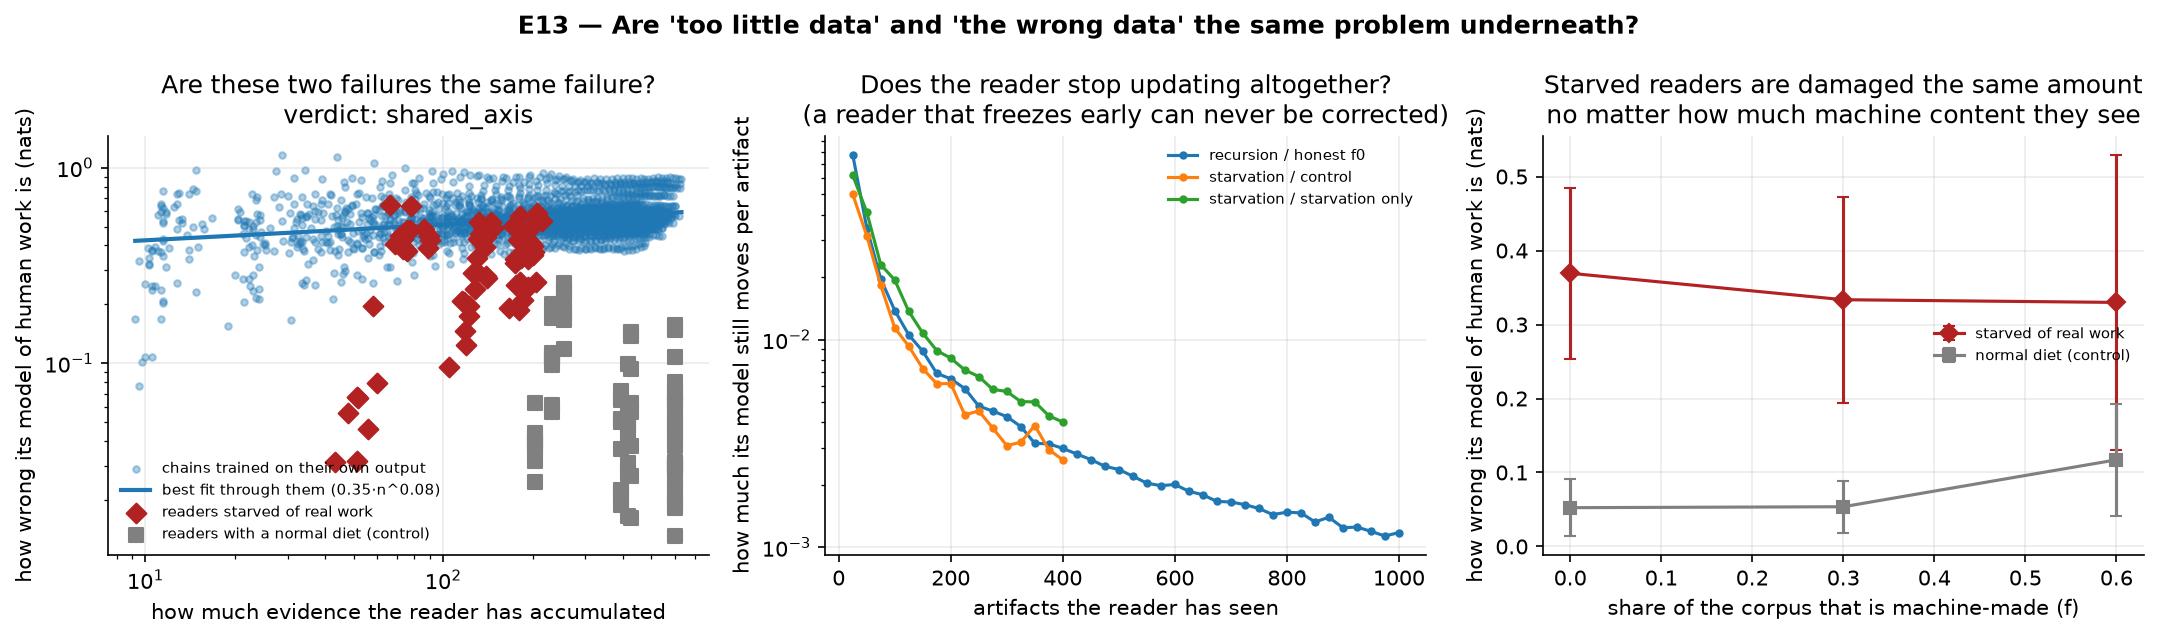
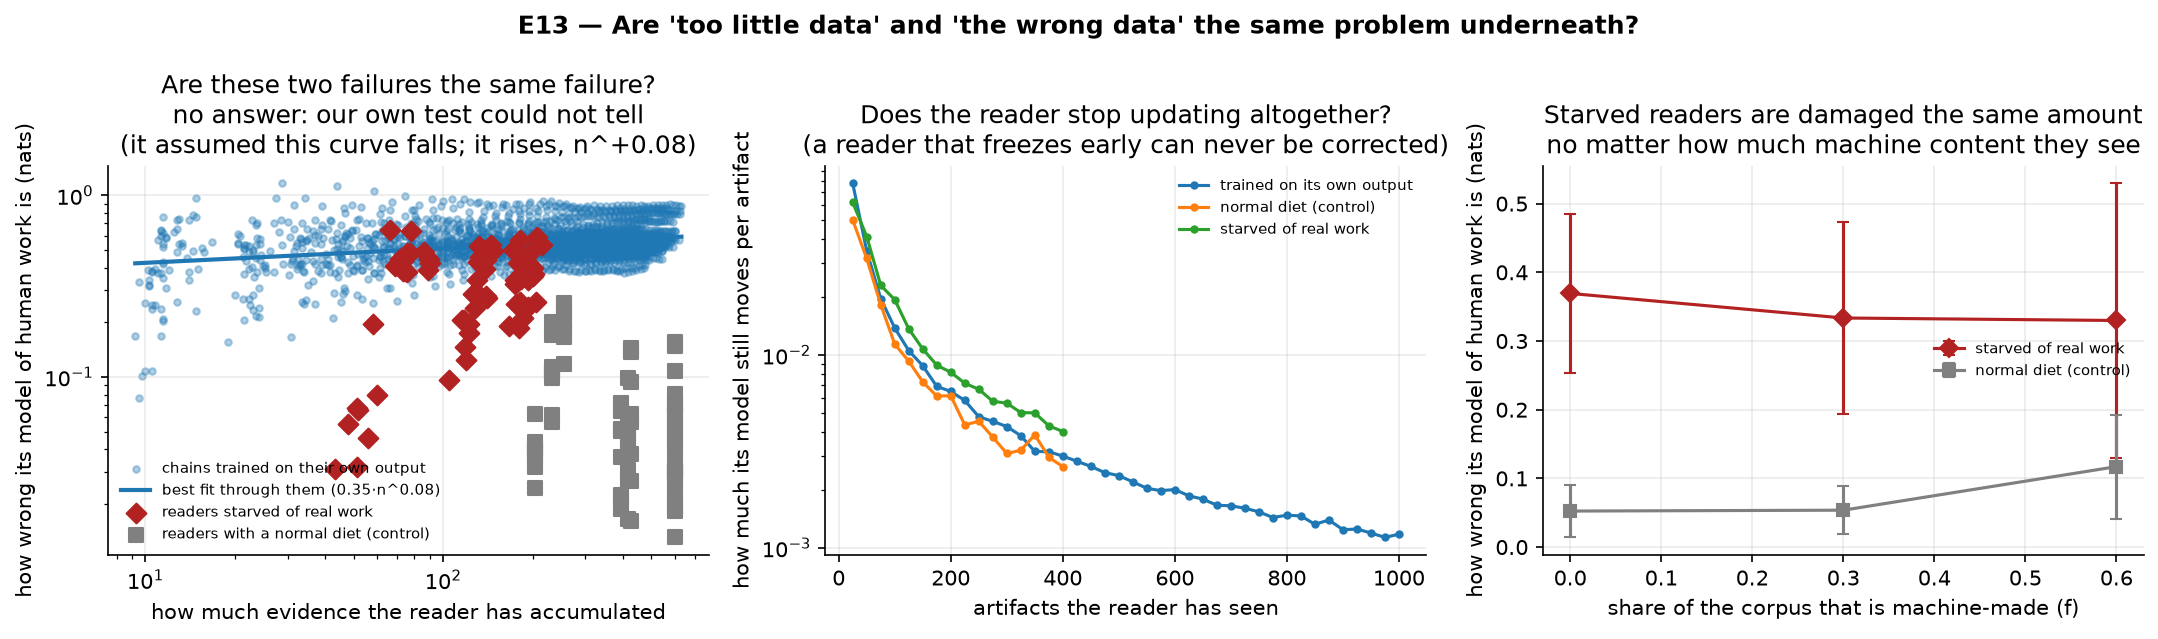
Fix four charts that argued against their own data
Reading the regenerated figures one by one turned up four titles asserting a
claim the panel underneath refutes. On a private repo that is a nuisance. On a
public one it is the reader's first impression of whether the numbers were looked
at.

E13 panel 1 printed the pre-registered classifier's verdict, "shared_axis",
directly onto the chart. RESULTS_V3.md deviation 2 says in as many words that this
answer may not be reported: the rule is a factor-of-2 tolerance test around a
power-law fit, written without requiring the fitted exponent to be negative, and
it came out positive (+0.080). Around a flat curve that tolerance accepts almost
anything. The chart now says the test could not tell, and why. The verdict JSON is
left alone, because it is the record of what the rule actually returned and
therefore the evidence for the deviation.

E10 panel 3 was captioned "train on what unskilled readers report, and you get a
more flattering agent". That is the E10 prediction that did NOT replicate. The
line is flat (slope -0.0065, t = -0.37) and the caption claimed the opposite of
what it plotted.

E9 panel 2 was captioned "the reader stops telling anything apart". Starvation
does not flatten in this model, which is V2's actual finding: it freezes the
reader at its prior instead. The panel showed the absence and the title asserted
the presence.

E6b panel 1 said content with no lean "cancels out". It does not; the control also
[…]

diff --git a/ghostscale/experiments/e13_freeze_leak_signature.py b/ghostscale/experiments/e13_freeze_leak_signature.py
@@ -278,17 +278,31 @@ def make_e13_figure(df, verdict, path):
     if len(control):
         ax.scatter(control.eff_sample_count, control.creator_col_kl, s=45, marker="s",
                    color="grey", label="readers with a normal diet (control)", zorder=5)
+    # DO NOT print classification.label straight onto the chart. The pre-registered rule returns
+    # "shared_axis" here, and RESULTS_V3.md deviation 2 says that answer may not be reported: the
+    # rule is a tolerance test against a power-law fit, and it was written without requiring the
+    # fitted exponent to be negative. It came out POSITIVE (+0.080), so the curve is flat, and a
+    # factor-of-2 tolerance around a flat curve accepts almost any value. The test cannot tell
+    # the two outcomes apart. The figure has to say that, or it contradicts the write-up.
+    if float(fit.get("b", 0.0)) >= 0.0:
+        verdict_line = ("no answer: our own test could not tell\n"
+                        f"(it assumed this curve falls; it rises, n^{fit['b']:+.2f})")
+    else:
+        verdict_line = f"verdict: {verdict['classification']['label'].replace('_', ' ')}"
     ax.set(xscale="log", yscale="log",
            xlabel="how much evidence the reader has accumulated",
            ylabel="how wrong its model of human work is (nats)",
-           title="Are these two failures the same failure?\n"
-                 f"verdict: {verdict['classification']['label']}")
+           title=f"Are these two failures the same failure?\n{verdict_line}")
     ax.legend(fontsize=7)
 
     ax = axes[1]
     for (half, arm), sub in df.groupby(["half", "arm"]):
         m = sub.groupby("artifact_index").col_change_rate.mean().sort_index()
-        ax.plot(m.index, m.values, marker="o", ms=3, label=f"{half} / {arm}".replace("_", " "))
+        arm_name = {("recursion", "honest_f0"): "trained on its own output",
+                    ("starvation", "control"): "normal diet (control)",
+                    ("starvation", "starvation_only"): "starved of real work"}
+        ax.plot(m.index, m.values, marker="o", ms=3,
+                label=arm_name.get((half, arm), f"{half} / {arm}".replace("_", " ")))
     ax.set(yscale="log", xlabel="artifacts the reader has seen",
            ylabel="how much its model still moves per artifact",
            title="Does the reader stop updating altogether?\n"

diff --git a/ghostscale/experiments/e10_expertise.py b/ghostscale/experiments/e10_expertise.py
@@ -197,14 +197,18 @@ def make_e10_figure(df, agg, path):
     ax.set(xlabel="how far the reader is from expert (0 = expert)",
            ylabel="how often it names the right purpose",
            title="The reader is the ceiling, not the material")
-    ax.legend(loc="lower left", fontsize=8)
+    ax.legend(loc="center left", fontsize=8)
 
     ax = axes[2]
     ax.errorbar(agg.d, agg.sycophancy, yerr=agg.sycophancy_sd, fmt="-o", color="firebrick",
                 lw=2, capsize=3)
+    # This panel shows a prediction FAILING. We expected unskilled readers to produce a more
+    # flattering downstream agent; the line is flat (slope -0.0065, t = -0.37). The title has to
+    # report the flat line, not the prediction, or the chart argues against its own data.
     ax.set(xlabel="how far the reader is from expert (0 = expert)",
            ylabel="how often the trained agent just flatters",
-           title="Train on what unskilled readers report,\nand you get a more flattering agent")
+           title="The prediction that failed: unskilled readers\n"
+                 "do NOT produce a more flattering agent")
 
     fig.suptitle("E10 — Whoever reads the work sets the ceiling on what can be learned from it",
                  fontweight="bold")

diff --git a/ghostscale/experiments/e18_deferred_estimator.py b/ghostscale/experiments/e18_deferred_estimator.py
@@ -222,10 +222,12 @@ def make_figure(df, verdict, path):
     ax.set(xlabel="generation (each one trains on the last one's output)",
            ylabel="how far preferences have flattened out",
            title="Does the picture of what people want\nslide toward 'anything goes'?")
-    ax.legend(fontsize=7)
+    # Not the default "best" placement: the 1.0 reference line runs the full width and the
+    # legend lands on top of it, striking through its own entries.
+    ax.legend(fontsize=7, loc="center left")
 
-    fig.suptitle("E18 — The drift was a bookkeeping bug in our own code, "
-                 "not a fact about the world", fontweight="bold")
+    fig.suptitle("E18 — Most of the drift was a bookkeeping bug in our own code. "
+                 "A smaller residual is not.", fontweight="bold")
     fig.tight_layout()
     fig.savefig(path, bbox_inches="tight")
     plt.close(fig)

diff --git a/ghostscale/experiments/e9_poison_starve.py b/ghostscale/experiments/e9_poison_starve.py
@@ -164,7 +164,10 @@ def make_e9_figure(df, agg, cfg, path):
                     color=colours.get(arm, "k"), capsize=3, label=arm_label.get(arm, arm))
     ax.set(xlabel="share of the corpus that is machine-made (f)",
            ylabel="how washed-out the reader's model is (nats)",
-           title="Washed out: the reader stops telling anything apart")
+           # The predicted starvation signature was flattening. It is not here, and the panel
+           # title has to say so rather than assert the prediction over the data.
+           title="Washing out: predicted for starvation, and absent\n"
+                 "(a starved reader freezes instead of blurring)")
     ax.legend(fontsize=8)
 
     ax = axes[2]

diff --git a/ghostscale/experiments/e6b_corpus_biased.py b/ghostscale/experiments/e6b_corpus_biased.py
@@ -242,7 +242,8 @@ def make_e6b_figure(df, agg, prereg, path):
             " what the earlier version measured: 0.066", va="top", fontsize=8, color="grey")
     ax.set(xlabel="share of the corpus that is machine-made (f)",
            ylabel="error in what people are believed to want (nats)",
-           title="Content with no lean cancels out; content with a lean piles up")
+           title="A lean pushes the error past the pre-set line.\n"
+                 "Content with no lean stays under it.")
     ax.legend(fontsize=8)
 
     ax = axes[1]

diff --git a/ghostscale/experiments/e7_learn_ghost.py b/ghostscale/experiments/e7_learn_ghost.py
@@ -185,7 +185,7 @@ def make_e7_figure(df, agg, path):
     ax.set(xlabel="artifacts the reader has seen",
            ylabel="how much intent it can still read out of human work",
            title="Does its grip on real human work hold,\nor blur into the machine content?")
-    ax.legend(fontsize=8)
+    ax.legend(fontsize=8, loc="lower right")
 
     ax = axes[2]
     piv = agg.pivot_table(index="signing_rate", columns="kappa", values="mi_ratio")
